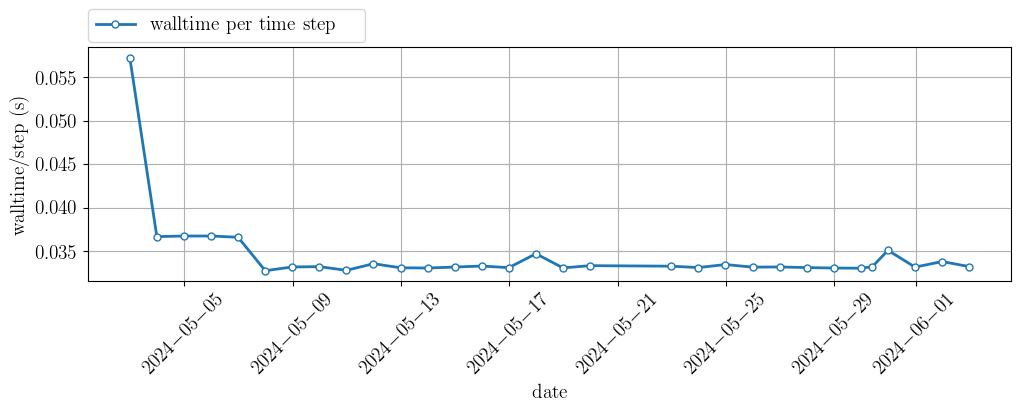
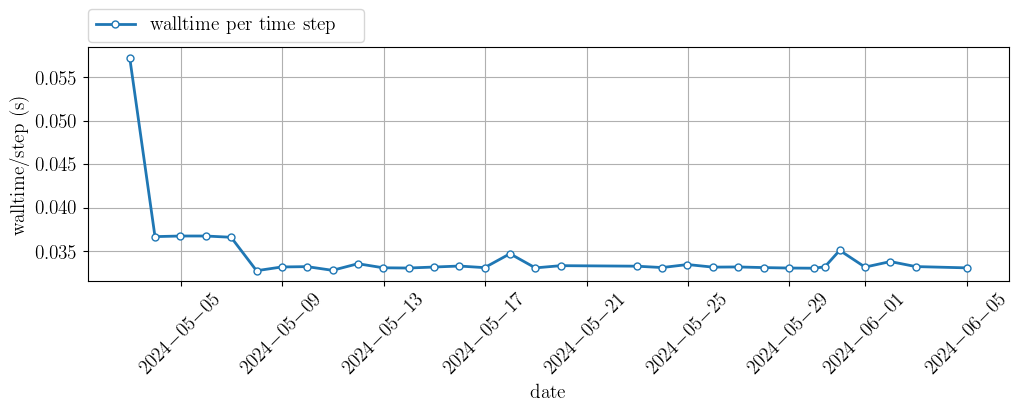
Automatic timing summary commit:

diff --git a/README.md b/README.md
@@ -1,4 +1,4 @@
-# Timing status (last ran on: 2024.06.04)
+# Timing status (last ran on: 2024.06.05)
 
 [![y3-prediction-scalability](https://github.com/illinois-ceesd/timing/actions/workflows/y3-prediction-scalability.yaml/badge.svg)](https://github.com/illinois-ceesd/timing/actions/workflows/y3-prediction-scalability.yaml) [![y2-prediction-timing](https://github.com/illinois-ceesd/timing/actions/workflows/y2-prediction-timing.yaml/badge.svg)](https://github.com/illinois-ceesd/timing/actions/workflows/y2-prediction-timing.yaml) [![isolator-timing](https://github.com/illinois-ceesd/timing/actions/workflows/isolator-timing.yaml/badge.svg)](https://github.com/illinois-ceesd/timing/actions/workflows/isolator-timing.yaml) [![flame1d-timing](https://github.com/illinois-ceesd/timing/actions/workflows/flame1d-timing.yaml/badge.svg)](https://github.com/illinois-ceesd/timing/actions/workflows/flame1d-timing.yaml) [![nozzle-timing](https://github.com/illinois-ceesd/timing/actions/workflows/nozzle-timing.yaml/badge.svg)](https://github.com/illinois-ceesd/timing/actions/workflows/nozzle-timing.yaml)
 
